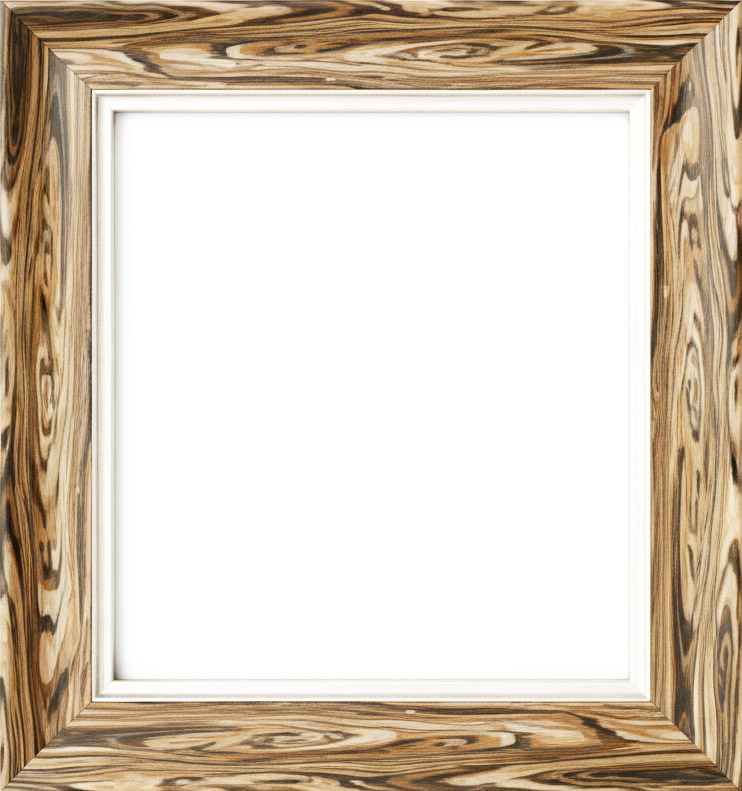
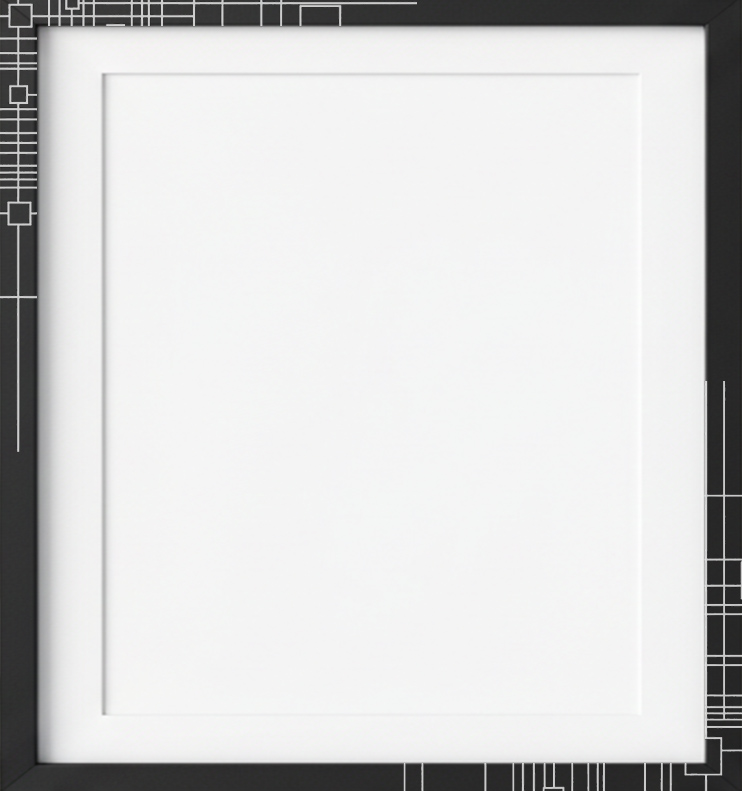
Created a modern look for the Art Gallery

diff --git a/components/ui/art_gallery/ArtGalleryPhotos.jsx b/components/ui/art_gallery/ArtGalleryPhotos.jsx
@@ -31,17 +31,24 @@ export default function ArtGalleryPhotos({
     >
       {children}
       {pictures.img.map((img, index) => (
-        <Image
+        <div
           key={index}
-          {...img}
-          alt=""
-          sizes="(max-width: 768px) 50vw, (max-width: 1024px) 30vw, 20vw"
-          onClick={e => setSelectedIndex(index)}
           className="
-            album-photo w-full mb-[0.5rem] md:border-[1rem] border-2
+            album-photo w-full mb-[0.5rem] md:border-[1rem] border-4
             [border-image:url(/images/photoframe.jpg)_64] md:mb-[1rem]
+            shadow-[10px_5px_10px] shadow-black/40 relative
+            after:absolute after:inset-0 after:inset-shadow-black/10
+            after:inset-shadow-[8px_5px_10px] after:pointer-events-none
           "
-        />
+        >
+          <Image
+            {...img}
+            alt=""
+            sizes="(max-width: 768px) 50vw, (max-width: 1024px) 30vw, 20vw"
+            onClick={e => setSelectedIndex(index)}
+            className=""
+          />
+        </div>
       ))}
     </div>
 

diff --git a/app/(frontend)/art_gallery/page.js b/app/(frontend)/art_gallery/page.js
@@ -7,8 +7,10 @@ import { getGalleryPictures } from "@/lib/cmsdata";
 export default async function ArtGallery() {
   const pictures = await getGalleryPictures();
 
-  return <main className="pt-[5rem] pb-[5rem] relative min-h-[100vh]">
-    <div className="absolute inset-0 -z-1">
+  return <main className="
+    pt-[5rem] pb-[5rem] relative min-h-[100vh] bg-[#dbdbdb]
+  ">
+    {/* <div className="absolute inset-0 -z-1">
       <Image
         src={mist_forest_img}
         alt=""
@@ -16,7 +18,7 @@ export default async function ArtGallery() {
         placeholder="blur"
         className="object-cover w-screen h-screen sticky top-0"
       />
-    </div>
+    </div> */}
     <h2 className="text-center text-primary mb-[1rem]">
       Art Gallery
     </h2>
